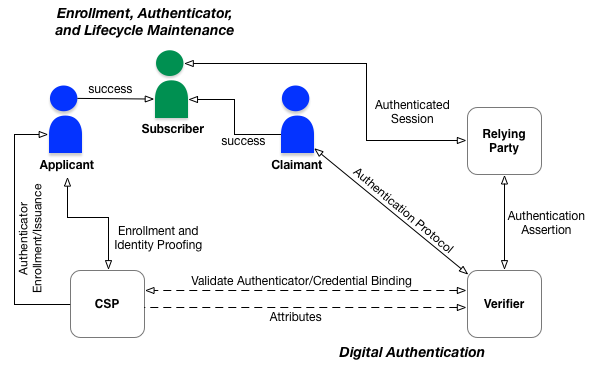
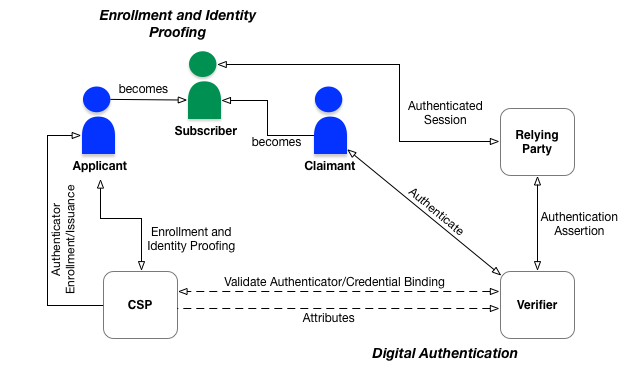
Updated sec4 per MEG edits

Changed region(s): [[0.0303, 0.0, 0.9983, 0.9891], [0.121, 0.8992, 0.242, 0.9292]]

diff --git a/sp800-63-3/sec4_model.md b/sp800-63-3/sec4_model.md
@@ -8,9 +8,11 @@
 
 ### <a name="4-1"></a>4.1. Overview 
 
+**PAG - Align with what gets done in the cover**
+
 In accordance with [OMB M-04-04](#M-04-04), digital authentication is the process of establishing confidence in individual identities presented digitally to a system. Systems can use the authenticated identity to determine if that whether a claimant is authorized to perform an online transaction. In most cases, the authentication and transaction take place across an open network such as the Internet; however, in some cases, access to the network may be limited and access control decisions may take this into account.
 
-The digital authentication model used in these guidelines reflects current technologies and architectures used in government. More complex models that separate functions--such as issuing credentials and providing attributes--among larger numbers of parties are also available and may have advantages in some classes of applications. While a simpler model is used in this document, it does not preclude agencies from separating these functions. In addition, certain enrollment, identity proofing, and issuance processes performed by the credential service provider (CSP) are sometimes delegated to an entity known as the registration authority (RA) or identity manager (IM). A close relationship between the RA/IM and CSP is typical, and the nature of this relationship may differ among RAs, IMs, and CSPs. The types of relationship and their requirements is outside of the scope of this document.  Accordingly, the term CSP will be used to be inclusive of RA and IM functions.
+The digital identity model used in these guidelines reflects current technologies and architectures used in government. More complex models that separate functions--such as issuing credentials and providing attributes--among larger numbers of parties are also available and may have advantages in some classes of applications. While a simpler model is used in this document, it does not preclude agencies from separating these functions. In addition, certain enrollment, identity proofing, and issuance processes performed by the credential service provider (CSP) are sometimes delegated to an entity known as the registration authority (RA) or identity manager (IM). A close relationship between the RA/IM and CSP is typical, and the nature of this relationship may differ among RAs, IMs, and CSPs. The types of relationship and their requirements is outside of the scope of this document.  Accordingly, the term CSP will be used to be inclusive of RA and IM functions.
 
 Digital authentication begins with enrollment. The usual sequence for enrollment proceeds as follows. An applicant applies to a CSP. If approved, the CSP creates a credential and binds it to one or more authenticators. The credential includes at least one identifier, which can be pseudonymous, and possibly one or more attributes that the CSP has verified. The authenticators may be issued by the CSP, provided directly by the subscriber, or provided by a third party. The authenticators and credential may be used in subsequent authentication events.
 
@@ -24,14 +26,12 @@ The strength of the authentication process is described by an ordinal measuremen
 
 As part of authentication, mechanisms such as device identity or geo-location may be used to identify or prevent possible authentication false positives. While these mechanisms do not directly increase the authenticator assurance level, they can aid in enforcing security policies and mitigate risks. In many cases, the authentication process and services will be shared by many applications and agencies. However, it is the individual agency or application acting as the RP that shall make the decision to grant access or process a transaction based on the specific application requirements.
 
-The various entities and interactions that comprise the digital authentication model used here are illustrated below in [Figure 4-1](#63Sec4-Figure1). The left side of the diagram shows the enrollment, credential issuance, lifecycle management activities, and various states of an identity proofing and authentication process. The usual sequence of interactions is as follows:
+The various entities and interactions that comprise the digital identity model used here are illustrated below in [Figure 4-1](#63Sec4-Figure1). The left side of the diagram shows the enrollment, credential issuance, lifecycle management activities, and various states of an identity proofing and authentication process. The usual sequence of interactions is as follows:
 
 1.	An applicant applies to a CSP through an enrollment process.
 2.	The CSP identity proofs that applicant. Upon successful proofing, the applicant becomes a subscriber.
 4.	Authenticator(s) and a corresponding credential are established between the CSP and the subscriber.
 5. The CSP maintains the credential, its status, and the enrollment data collected for the lifetime of the credential (at a minimum). The subscriber maintains his or her authenticator(s).
-
->**MG: This last one (5) seems a bit prescriptive compared to the others. Is that really where we want to go in this informative volume?**
 
 Other sequences are less common, but could also achieve the same functional requirements.
 
@@ -52,22 +52,18 @@ As noted above, a CSP maintains status information about the credentials it issu
 <div class="text-center" markdown="1">
 ![](sp800-63-3/media/model.png)
 
->**MG: I would cut enrollment from "Authenicator Enrollment/Issuance". Maybe also use "becomes" to indicate that it is the same subject changing from applicant to subscriber to claimant. It looks a bit disjointed otherwise. Finally, the "Authentication Protocol" between verifier and claimant seems out of place. What's really happenig there?**
-
-**Figure 4-1 - Digital Authentication Model**
+**Figure 4-1 - Digital Identity Model**
 </div>
 
 ### 4.2. Enrollment and Identity Proofing
 
 Normative requirements can be found in [Special Publication 800-63A](sp800-63a.html), *Enrollment and Identity Proofing*.
 
-The previous section introduced the different participants in the conceptual digital authentication model. This section provides additional details regarding the relationships and responsibilities of the participants involved with enrollment and identity proofing.
+The previous section introduced the different participants in the conceptual digital identity model. This section provides additional details regarding the relationships and responsibilities of the participants involved with enrollment and identity proofing.
 
 An individual, referred to as an *applicant* at this stage, requests credentials from a CSP. If the applicant is successfully proofed and a credential is created by a CSP and authenticator(s) are bound to it, the individual is then termed a subscriber of that CSP.
 
-The CSP establishes a mechanism to uniquely identify each subscriber, register the subscriber’s credentials, and track the authenticators issued to that subscriber. The subscriber may be given authenticators at the time of enrollment, the CSP may bind authenticators the subscriber already has, or they may be generated later as needed. Subscribers have a duty to maintain control of their authenticators and comply with their responsibilities to the CSP. The CSP maintains enrollment records for each subscriber to allow recovery of enrollment records.
-
->**MG: What is recovery of enrollment records? Do we mean recovery of an account if authenticators are lost?**
+The CSP establishes a mechanism to uniquely identify each subscriber, register the subscriber’s credentials, and track the authenticators issued to that subscriber. The subscriber may be given authenticators at the time of enrollment, the CSP may bind authenticators the subscriber already has, or they may be generated later as needed. Subscribers have a duty to maintain control of their authenticators and comply with their responsibilities to the CSP. The CSP maintains enrollment records for each subscriber to allow recovery of authenticators, for example, when they are lost or stolen.
 
 ### 4.3. Authentication and Lifecycle Management
 
@@ -94,8 +90,6 @@ In this document, authenticators always contain a secret. Some of the classic au
 However, this guideline does recognize that authentication systems that incorporate all three factors offer better security than systems that incorporate two of the factors. A digital authentication system may incorporate multiple factors in either of two ways. The system may be implemented so that multiple factors are presented to the verifier, or some factors may be used to protect a secret that will be presented to the verifier. If multiple factors are presented to the verifier, each will need to be a authenticator (and therefore contain a secret). If a single factor is presented to the verifier, the additional factors are used to protect the authenticator and need not themselves be authenticators.
 
 For example, consider a piece of hardware (the authenticator) that contains a cryptographic key (the authenticator secret) where access is protected with a fingerprint. When used with the biometric, the cryptographic key produces an output that is used in the authentication process to authenticate the claimant. An impostor must steal the encrypted key (by stealing the hardware) and replicate the fingerprint to use the authenticator. This specification considers such a device to effectively provide two factor authentication, although the actual authentication protocol between the verifier and the claimant simply proves possession of the key.
-
->**MG: I think we use both imposter and impostor in the doc. Don't care which, but should pick one.**
 
 As noted above, biometrics, when employed as a single factor of authentication, do not constitute acceptable secrets for digital authentication, but they do have their place in this specification. Biometric characteristics are unique personal attributes that can be used to verify the identity of a person who is physically present at the point of verification. They include facial features, fingerprints, iris patterns, voiceprints, and many other characteristics. [Special Publication 800-63A](sp800-63a.html), *Enrollment and Identity Proofing* recommends that biometrics be used in the enrollment process for higher levels of assurance to later help prevent a subscriber who is registered from repudiating the enrollment, to help identify those who commit enrollment fraud, and to unlock authenticators.
 
@@ -124,12 +118,9 @@ Federated architectures have many significant benefits, including, but not limit
 * Enhanced user experience.  For example, an individual can be identity proofed once and can reuse the issued credential at multiple RPs
 * Cost reduction to both the user (reduction in authenticators) and the agency (reduction in IT infrastructure)
 * Data minimization as agencies do not need to pay for collection, storage, disposal, and compliance activities related to storing personal information
-* Privacy enhancing
 * Pseudonymous attribute assertions as agencies can request a minimized set of attributes, to include claims, to fulfill service delivery.
 * Mission enablement as agencies can focus on mission, rather than the business of identity management.
 
->**MG: Choose one end-of-bullet format for all of -63. Also, I don't like that privacy enhancing is the only one wihtout context.**
-  
 The following sections discuss the components of a federated identity architecture should an agency elect this type of model.
 
 #### 4.4.1 Assertions
